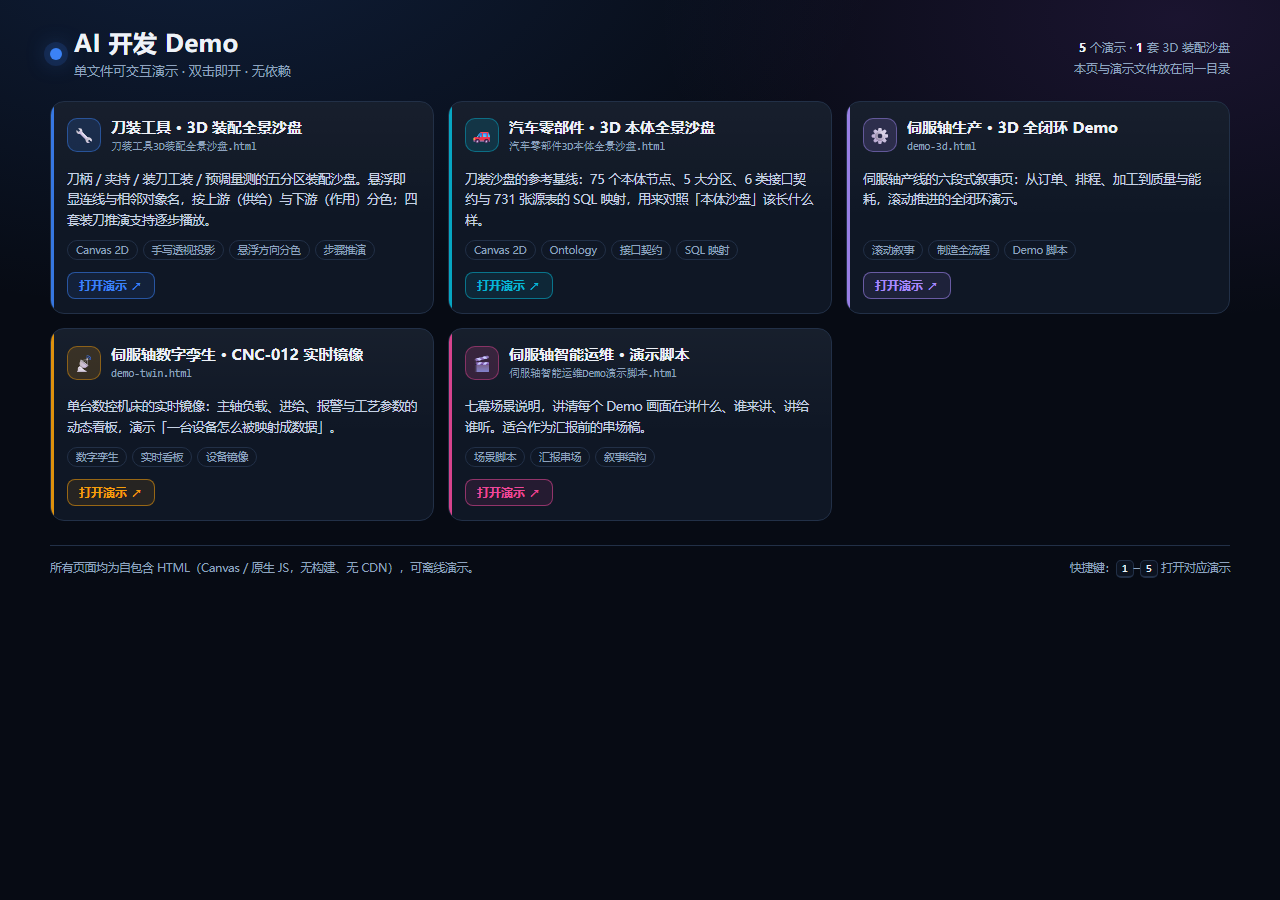
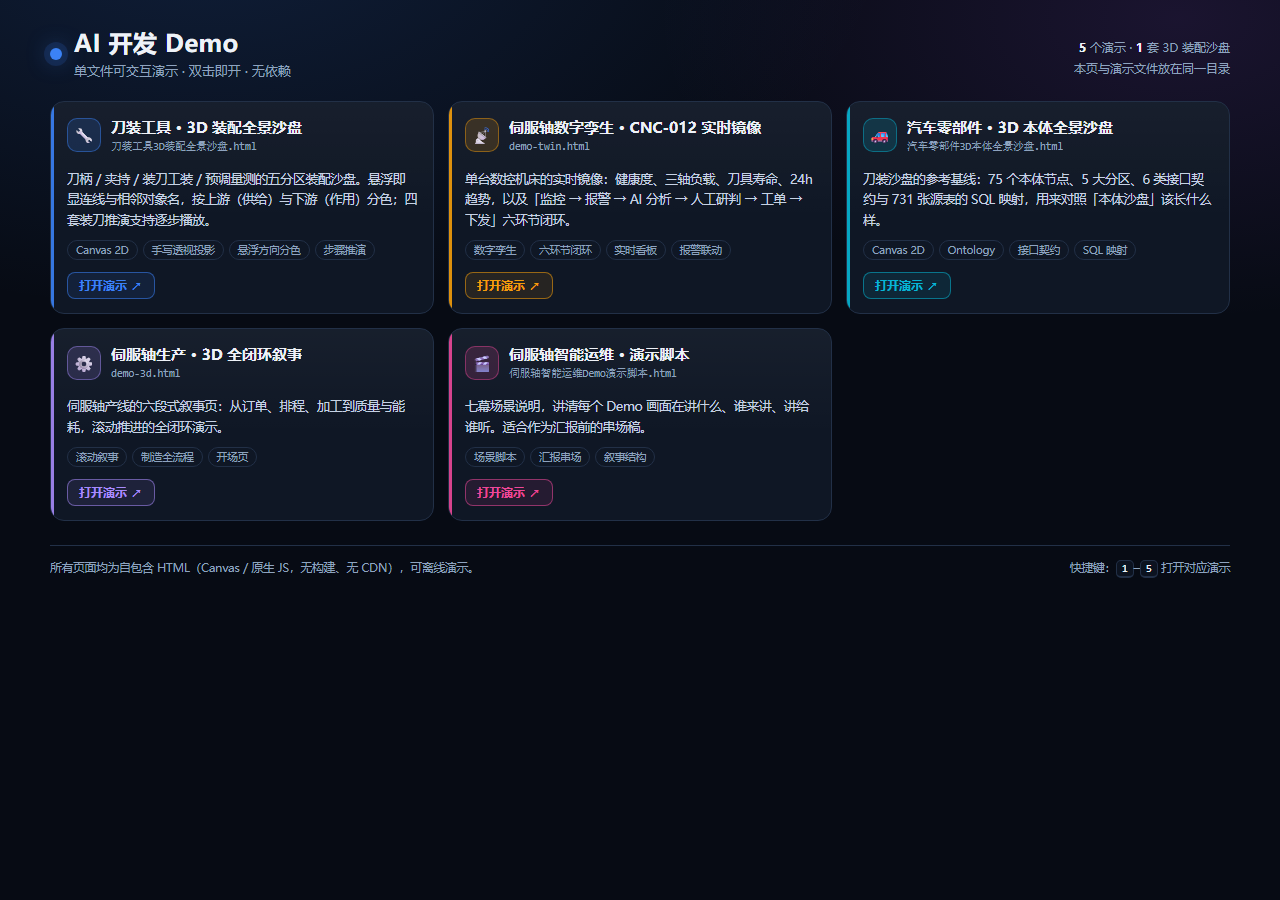
AI开发Demo：demo-twin 拆为独立条目并排在第 2 位，入口页与索引同步调整

Changed region(s): [[0.3438, 0.1244, 0.9375, 0.3422], [0.0312, 0.3733, 0.3438, 0.56]]

diff --git a/AI开发Demo/assets/demo-site.html b/AI开发Demo/assets/demo-site.html
@@ -136,6 +136,14 @@
       icon: '🔧', accent: '#3b82f6'
     },
     {
+      key: 'demo-twin.html',
+      title: '伺服轴数字孪生 · CNC-012 实时镜像',
+      file: 'demo-twin.html',
+      desc: '单台数控机床的实时镜像：健康度、三轴负载、刀具寿命、24h 趋势，以及「监控 → 报警 → AI 分析 → 人工研判 → 工单 → 下发」六环节闭环。',
+      tags: ['数字孪生', '六环节闭环', '实时看板', '报警联动'],
+      icon: '📡', accent: '#f59e0b'
+    },
+    {
       key: '汽车零部件3D本体全景沙盘.html',
       title: '汽车零部件 · 3D 本体全景沙盘',
       file: '汽车零部件3D本体全景沙盘.html',
@@ -145,19 +153,11 @@
     },
     {
       key: 'demo-3d.html',
-      title: '伺服轴生产 · 3D 全闭环 Demo',
+      title: '伺服轴生产 · 3D 全闭环叙事',
       file: 'demo-3d.html',
       desc: '伺服轴产线的六段式叙事页：从订单、排程、加工到质量与能耗，滚动推进的全闭环演示。',
-      tags: ['滚动叙事', '制造全流程', 'Demo 脚本'],
+      tags: ['滚动叙事', '制造全流程', '开场页'],
       icon: '⚙', accent: '#a78bfa'
-    },
-    {
-      key: 'demo-twin.html',
-      title: '伺服轴数字孪生 · CNC-012 实时镜像',
-      file: 'demo-twin.html',
-      desc: '单台数控机床的实时镜像：主轴负载、进给、报警与工艺参数的动态看板，演示「一台设备怎么被映射成数据」。',
-      tags: ['数字孪生', '实时看板', '设备镜像'],
-      icon: '📡', accent: '#f59e0b'
     },
     {
       key: '伺服轴智能运维Demo演示脚本.html',

diff --git a/AI开发Demo/伺服轴智能运维-Demo套件.md b/AI开发Demo/伺服轴智能运维-Demo套件.md
@@ -1,75 +1,59 @@
 ---
-title: "伺服轴智能运维 · Demo 套件"
+title: "伺服轴智能运维 · 叙事页与演示脚本"
 aliases:
-  - 伺服轴 Demo
-  - 数字孪生 Demo
+  - 伺服轴 Demo 套件
+  - 伺服轴叙事页
 tags:
   - AI开发Demo
   - Demo/制造
-  - 数字孪生
+  - 演示脚本
 type: demo
 created: 2026-11-22
 updated: 2026-11-22
 status: done
 ---
 
-# 伺服轴智能运维 · Demo 套件
+# 伺服轴智能运维 · 叙事页与演示脚本
 
 > [!summary] 一句话
-> 同一家工厂、同一条伺服轴产线的三份演示材料：**一页叙事**（demo-3d）、**一台机床的实时镜像**（demo-twin）、**一份七幕串场稿**（演示脚本）。讲的时候按「叙事 → 镜像 → 脚本」的顺序走。
+> 伺服轴产线演示的「开场」和「串场」：`demo-3d.html` 用六段式叙事建立全局印象，`伺服轴智能运维Demo演示脚本.html` 给出七幕讲解口径。
+> 设备级的那部分单独成篇：[[伺服轴数字孪生-CNC012实时镜像]]。
 
 | 文件 | 作用 | 体积 |
 | --- | --- | --- |
-| `assets/demo-3d.html` | 产线 3D 全闭环叙事页，六段式滚动推进：订单 → 排程 → 加工 → 质量 → 能耗 → 复盘 | 132 KB |
-| `assets/demo-twin.html` | 单机数字孪生镜像（CNC-012），六个环节的实时看板 | 758 KB |
-| `assets/伺服轴智能运维Demo演示脚本.html` | 七幕场景说明，讲清每屏在说什么、谁来讲 | 71 KB |
+| `assets/demo-3d.html` | 产线 3D 全闭环叙事页：订单 → 排程 → 加工 → 质量 → 能耗 → 复盘 | 132 KB |
+| `assets/伺服轴智能运维Demo演示脚本.html` | 七幕场景说明：每屏在说什么、谁来讲、讲给谁听 | 71 KB |
 
-三个页面都是自包含 HTML，双击即开。
+## 一、demo-3d.html：产线级的「全景图」
 
-## 一、demo-twin.html：一台机床怎么被映射成数据
+一份滚动推进的叙事页，把六个阶段串成一条线：
 
-这是三份里信息密度最高的一份，演示的是「设备孪生体」：
+1. **订单接入**——需求从哪来
+2. **APS 排程**——怎么排、按什么约束排
+3. **加工执行**——设备、工序、节拍
+4. **质量追溯**——出了问题怎么倒查
+5. **能耗与碳**——单耗、峰谷、碳足迹
+6. **复盘改善**——数据怎么回到下一轮
 
-- **左上 HUD**：健康度弧形仪表（HEALTH 86 · 良好 · 平稳）、主轴 X / Y / Z 三轴负载、刀具寿命与 VB 磨损值
-- **右上 HUD**：随环节切换的解说面板（`环节 01 · 全域感知` → `环节 06 · 审核下发`）
-- **底部状态条**：主轴 / 冷却 / 门联锁 / 润滑 四个运行状态，异常的会标黄
-- **24h 趋势条**：可视化的历史负载，用来支撑「为什么现在报警」
-- **报警层**：出现异常时整屏边缘泛红 + 顶部 toast，不用观众去找哪里变了
-- **交互**：`外罩：开/关` 切换能看见内部结构；`▶ 自动演示` 按六环节自动走完一轮
+适合开场 3 分钟用，让观众先有「整条线」的概念，再进到设备级细节。
 
-**六个环节的闭环**（这是它真正想讲的）：
+## 二、演示脚本：讲的人手里的那张纸
 
-| # | 环节 | 在演什么 |
-| --- | --- | --- |
-| 01 | 监控大屏 | 全域感知：设备在干什么 |
-| 02 | 异常报警 | 参数超标：哪一项越界了 |
-| 03 | 数字人分析 | AI 解析：可能是什么原因 |
-| 04 | 人工研判 | 人机协同：人确认/否决 |
-| 05 | 工单方案 | 智能处置：建议怎么修 |
-| 06 | 审核下发 | 派工：谁在什么时候去修 |
+七幕场景说明，每一幕给出画面要点、讲解口径和串场句。
 
-> [!tip] 演示时的讲法
-> 不要一上来讲技术架构。先用「这台机床现在健康度 86」把人带进来，再让报警触发，最后讲「从报警到派工单，中间没有一次手工抄表」——闭环是靠这条链路立住的。
+> [!warning] 打开时机
+> 它本身不是给观众看的，是给讲的人看的——**建议最后才打开**，或者干脆打印出来放在手边，否则会把注意力从画面上带走。
 
-## 二、demo-3d.html：产线级的叙事页
-
-如果 demo-twin 是「显微镜」，这份就是「全景图」：六段式滚动叙事，把订单接入、APS 排程、加工执行、质量追溯、能耗与碳、复盘改善串成一条线。适合开场 3 分钟建立全局印象。
-
-## 三、演示脚本：讲的人手里的那张纸
-
-七幕场景说明，每一幕给出画面要点、讲解口径和串场句。它本身不是给观众看的，是给讲的人看的——**建议最后才打开**，否则会把注意力从画面上带走。
-
-## 四、三份材料的关系
+## 三、三份材料的关系
 
 ```text
-叙事（demo-3d）       ：为什么要做这件事
-镜像（demo-twin）     ：这件事在设备上长什么样
-脚本（演示脚本）      ：讲的时候怎么串
+叙事（demo-3d）                    ：为什么要做这件事
+镜像（[[伺服轴数字孪生-CNC012实时镜像]]）：这件事在设备上长什么样
+脚本（演示脚本）                    ：讲的时候怎么串
 ```
 
-## 五、可复用的做法
+## 四、可复用的做法
 
-1. **环节式推进**：把「智能运维」拆成 6 个可点击的环节，比一张大屏更能讲清闭环。
-2. **报警要有物理位置**：整屏边缘泛红 + toast + 对应面板高亮，三处同时变，观众才看得见。
-3. **状态条固定四项**：主轴 / 冷却 / 门联锁 / 润滑——不多不少，正好覆盖「能不能继续干」。
-4. **数字孪生不等于 3D 模型**：真正起作用的是参数、状态、趋势和报警之间的对应关系。
+1. **分层讲**：先产线（叙事页）再设备（孪生镜像）最后流程（脚本），比一上来就讲单机细节更容易建立信任。
+2. **叙事页用滚动而非点击**：开场阶段观众还没进入交互状态，滚动推进的阻力最小。
+3. **脚本要写「串场句」**：两屏之间的那句过渡话，往往比每屏的内容更决定演示是否连贯。

diff --git a/AI开发Demo/AI开发Demo.md b/AI开发Demo/AI开发Demo.md
@@ -22,12 +22,13 @@ status: active
 
 打开 `assets/demo-site.html` —— 一个本地入口页，把下面 5 个 Demo 聚合在一起，`1`–`5` 键可直接打开对应演示。
 
-| Demo | 一句话 | 技术看点 | 文件 |
-| --- | --- | --- | --- |
-| [[刀装工具-3D装配全景沙盘]] | 刀柄 / 夹持 / 装刀工装 / 预调量测的五分区装配沙盘 | 手写透视投影、悬浮上游/下游分色、逐步推演 | `assets/刀装工具3D装配全景沙盘.html` |
-| [[汽车零部件-3D本体全景沙盘]] | 75 节点本体全景沙盘 + 731 张源表 SQL 映射（参考基线） | 分层平板、分区底板、接口环、视检抽屉 | `assets/汽车零部件3D本体全景沙盘.html` |
-| [[伺服轴智能运维-Demo套件]] | 伺服轴产线的 3D 全闭环叙事 + **数字孪生镜像 demo-twin** + 演示脚本 | 滚动叙事、实时看板、六环节闭环 | `assets/demo-3d.html`、`assets/demo-twin.html`、`assets/伺服轴智能运维Demo演示脚本.html` |
-| [[pdoom-代码渲染MV]] | 用代码逐帧渲染整支音乐 MV（本地项目，未入库） | 确定性渲染、逐词对齐、节拍驱动 | 见笔记内路径 |
+| # | Demo | 一句话 | 技术看点 | 文件 |
+| --- | --- | --- | --- | --- |
+| 1 | [[刀装工具-3D装配全景沙盘]] | 刀柄 / 夹持 / 装刀工装 / 预调量测的五分区装配沙盘 | 手写透视投影、悬浮上游/下游分色、逐步推演 | `assets/刀装工具3D装配全景沙盘.html` |
+| 2 | [[伺服轴数字孪生-CNC012实时镜像]] | 单台机床的实时镜像：健康度、三轴负载、刀具寿命、24h 趋势 + 六环节闭环 | 环节式推进、报警三处联动、状态条最小集 | `assets/demo-twin.html` |
+| 3 | [[汽车零部件-3D本体全景沙盘]] | 75 节点本体全景沙盘 + 731 张源表 SQL 映射（参考基线） | 分层平板、分区底板、接口环、视检抽屉 | `assets/汽车零部件3D本体全景沙盘.html` |
+| 4 | [[伺服轴智能运维-Demo套件]] | 产线级 3D 全闭环叙事页 + 七幕演示脚本 | 滚动叙事、串场稿写法 | `assets/demo-3d.html`、`assets/伺服轴智能运维Demo演示脚本.html` |
+| 5 | [[pdoom-代码渲染MV]] | 用代码逐帧渲染整支音乐 MV（本地项目，未入库） | 确定性渲染、逐词对齐、节拍驱动 | 见笔记内路径 |
 
 ## 收录标准
 
@@ -52,21 +53,23 @@ status: active
 
 ```text
 AI开发Demo/
-├── AI开发Demo.md                    # 本页
-├── 刀装工具-3D装配全景沙盘.md          # 装配沙盘：实现拆解
-├── 汽车零部件-3D本体全景沙盘.md        # 参考基线：本体沙盘该长什么样
-├── 伺服轴智能运维-Demo套件.md          # 3 个伺服轴 Demo 的关系与讲解顺序
-├── pdoom-代码渲染MV.md               # 代码渲染 MV（本地项目）
+├── AI开发Demo.md                          # 本页
+├── 刀装工具-3D装配全景沙盘.md                # ① 装配沙盘：实现拆解
+├── 伺服轴数字孪生-CNC012实时镜像.md           # ② 单机数字孪生：六环节闭环
+├── 汽车零部件-3D本体全景沙盘.md               # ③ 参考基线：本体沙盘该长什么样
+├── 伺服轴智能运维-Demo套件.md                 # ④ 产线叙事页 + 演示脚本
+├── pdoom-代码渲染MV.md                     # ⑤ 代码渲染 MV（本地项目）
 └── assets/
-    ├── demo-site.html               # 入口页（聚合 5 个 Demo）
+    ├── demo-site.html                     # 入口页（聚合 5 个 Demo）
     ├── 刀装工具3D装配全景沙盘.html
+    ├── demo-twin.html
     ├── 汽车零部件3D本体全景沙盘.html
     ├── demo-3d.html
-    ├── demo-twin.html
     ├── 伺服轴智能运维Demo演示脚本.html
-    └── *.jpg                        # 笔记里引用的截图
+    └── *.jpg / demo-site-预览.png          # 笔记里引用的截图
 ```
 
 ## 更新记录
 
 - 2026-11-22：建专题；收录刀装工具沙盘（含上下游分色、逐步推演）、汽车零部件沙盘、伺服轴三件套；新增 `demo-site.html` 入口页。
+- 2026-11-22：`demo-twin` 从套件里拆出，独立成篇并排在第 2 位；套件页改为「叙事页 + 演示脚本」。

diff --git a/AI开发Demo/伺服轴数字孪生-CNC012实时镜像.md b/AI开发Demo/伺服轴数字孪生-CNC012实时镜像.md
@@ -1,0 +1,60 @@
+---
+title: "伺服轴数字孪生 · CNC-012 实时镜像"
+aliases:
+  - demo-twin
+  - CNC-012 数字孪生
+tags:
+  - AI开发Demo
+  - Demo/制造
+  - 数字孪生
+type: demo
+created: 2026-11-22
+updated: 2026-11-22
+status: done
+---
+
+# 伺服轴数字孪生 · CNC-012 实时镜像
+
+> [!summary] 一句话
+> 把一台数控机床（CNC-012）做成可交互的孪生体：健康度、三轴负载、刀具寿命、24h 趋势、门联锁状态全在一个画面里，再用**六个环节**把「报警 → 分析 → 研判 → 工单 → 下发」的闭环演完。
+
+- 文件：`assets/demo-twin.html`（758 KB，单文件、零依赖，双击即开）
+
+## 一、画面构成
+
+| 区域 | 内容 |
+| --- | --- |
+| 左上 HUD | 健康度弧形仪表（HEALTH / 良好 / 平稳趋势）、主轴 X·Y·Z 三轴负载、刀具寿命 %、VB 磨损值 |
+| 右上 HUD | 随环节切换的解说面板：`环节 01 · 全域感知` → `环节 06 · 审核下发` |
+| 底部状态条 | 主轴运行 / 冷却开启 / 门联锁闭合 / 润滑偏低——四项固定，覆盖「能不能继续干」 |
+| 24h 趋势条 | 历史负载可视化，用来回答「为什么现在报警」 |
+| 报警层 | 异常时整屏边缘泛红 + 顶部 toast + 对应面板高亮，三处同时变 |
+| 3D 场景 | Canvas 绘制的机床本体，`外罩：开/关` 可切换看内部结构 |
+
+## 二、六个环节（它真正想讲的东西）
+
+| # | 环节 | 在演什么 |
+| --- | --- | --- |
+| 01 | 监控大屏 · 全域感知 | 设备在干什么、健康度怎么样 |
+| 02 | 异常报警 · 参数超标 | 哪一项越界了，越了多少 |
+| 03 | 数字人分析 · AI 解析 | 可能的原因是什么 |
+| 04 | 人工研判 · 人机协同 | 人确认或否决 AI 的结论 |
+| 05 | 工单方案 · 智能处置 | 建议怎么修、要什么备件 |
+| 06 | 审核下发 · 派工 | 谁在什么时候去修 |
+
+`▶ 自动演示` 会按 01→06 自动走一轮；也可以点环节标签手动跳。
+
+> [!tip] 演示时的讲法
+> 别一上来讲架构。先说「这台机床健康度 86」，再触发报警，最后落到「从报警到派工单，中间没有一次手工抄表」——闭环是靠这条链路立住的，不是靠大屏好看。
+
+## 三、可复用的做法
+
+1. **环节式推进**：把「智能运维」拆成 6 个可点击环节，比一张塞满指标的大屏更能讲清闭环。
+2. **报警要有物理位置**：边缘泛红 + toast + 面板高亮，三处同时变，观众才找得到变化点。
+3. **状态条固定四项**：主轴 / 冷却 / 门联锁 / 润滑，不多不少，正好是「能不能继续加工」的最小集。
+4. **数字孪生 ≠ 3D 模型**：真正起作用的是参数、状态、趋势与报警之间的对应关系；3D 只是承载。
+
+## 四、相关
+
+- 套件里的另外两份：[[伺服轴智能运维-Demo套件]]（3D 全闭环叙事页 + 七幕演示脚本）
+- 同类沙盘：[[刀装工具-3D装配全景沙盘]]（同样是单文件 + Canvas，但讲的是装配关系而不是设备状态）
